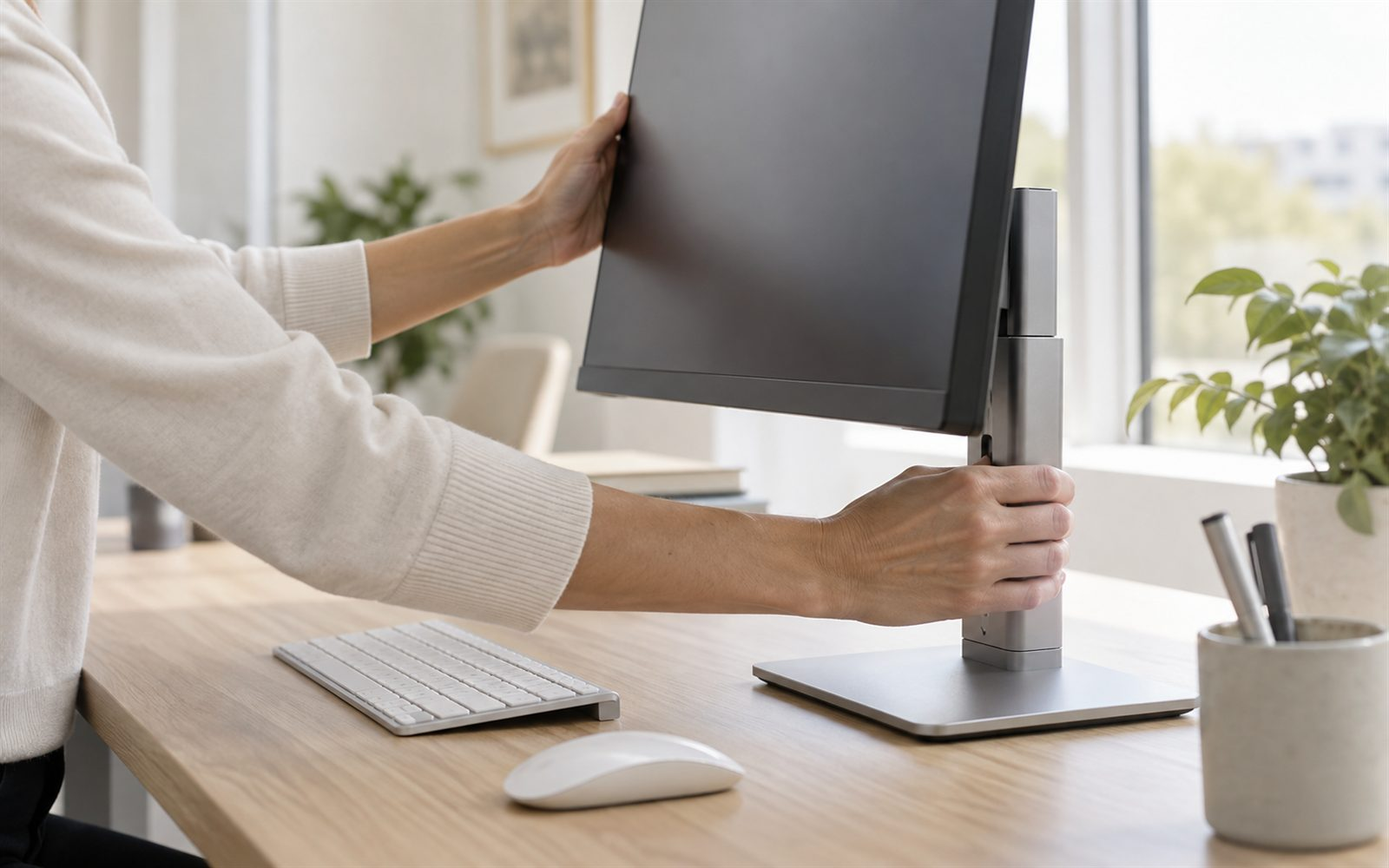
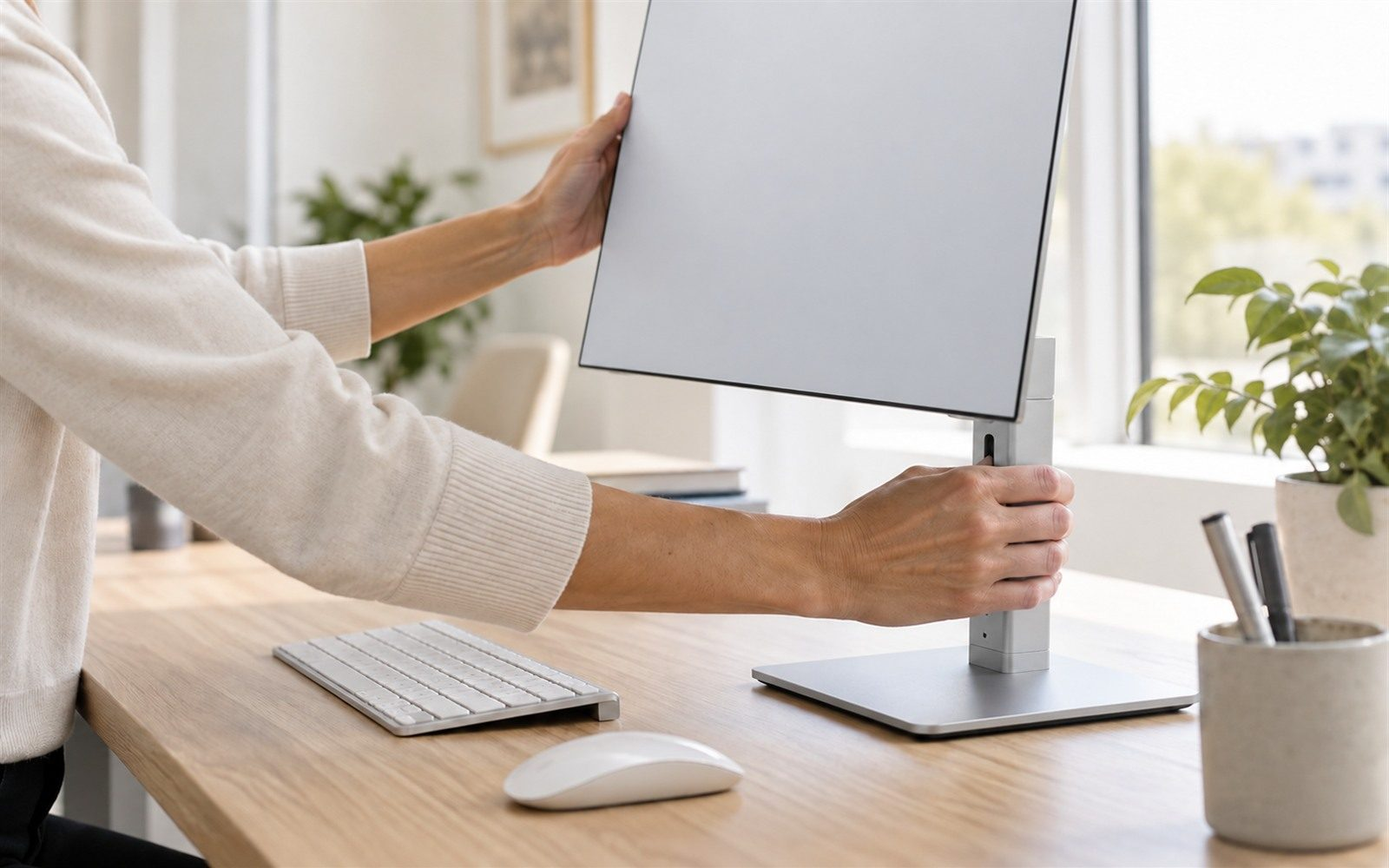
Слайды курса в стиле сайта: еще три (ноутбук, диск, головная боль) по образцу slides/, все шесть на странице курса; новое фото с тонким монитором (adjust)

diff --git a/slides/index.html b/slides/index.html
@@ -114,6 +114,47 @@ img{display:block;max-width:100%}
 .l-heat .s-photo{height:100%}
 .l-heat .s-photo img{object-position:40% 50%}
 
+/* 4. Ноутбук: текст слева, два фото с подписью «удобно / неудобно» */
+.l-lap{display:grid;grid-template-columns:minmax(0,.9fr) minmax(0,1fr) minmax(0,1fr);gap:2.4em;height:100%;grid-template-rows:minmax(0,1fr)}
+.l-lap__text{display:flex;flex-direction:column;padding-right:1.6em}
+.l-lap__lead{margin-top:2.4em;font-size:2.1em;line-height:1.5;color:var(--navy-2)}
+.lap{display:flex;flex-direction:column;min-height:0}
+.lap .s-photo{flex:1 1 auto;min-height:0}
+.verdict{list-style:none;margin-top:1.6em;background:var(--tint);border-radius:2.2em;padding:1.6em 2em}
+.verdict li{display:flex;align-items:center;gap:1em;font-size:2em;font-weight:500;line-height:1.3}
+.verdict li + li{margin-top:.7em}
+.verdict i{flex:0 0 auto;display:grid;place-items:center;width:1.5em;height:1.5em;border-radius:50%;background:var(--brand);color:#fff}
+.verdict li.is-bad{color:var(--navy-2)}
+.verdict li.is-bad i{background:#B6BCC8}
+.verdict svg{width:.9em;height:.9em}
+
+/* 5. Диск: текст слева, схема «норма / выпрямленный лордоз» справа */
+.l-disc{display:flex;flex-direction:column;height:100%}
+.l-disc__text{display:grid;grid-template-columns:minmax(0,1.35fr) minmax(0,1fr);gap:5.6em;align-items:end}
+.l-disc .s-h{font-size:5.6em}
+.l-disc__lead{font-size:2.3em;line-height:1.45;color:var(--navy-2);padding-bottom:.4em}
+.discs{flex:1 1 auto;min-height:0;display:grid;grid-template-columns:1fr 1fr;gap:2em;margin-top:4em}
+.disc{position:relative;display:flex;flex-direction:column;min-height:0;background:var(--tint);border-radius:2.8em;padding:7.2em 2.4em 2.8em}
+.disc svg{flex:1 1 auto;width:100%;min-height:0}
+.disc__cap{position:absolute;left:1.4em;top:1.4em;margin-top:0}
+.disc__cap{display:flex;align-items:center;gap:1em;margin-top:1.6em;font-size:2.1em;font-weight:600}
+.disc__cap span{font-size:.72em;color:var(--brand)}
+
+/* 6. Головная боль: причины плашками, следствие цепочкой, фото справа */
+.l-head{display:grid;grid-template-columns:minmax(0,1.5fr) minmax(0,1fr);gap:5.6em;height:100%;grid-template-rows:minmax(0,1fr)}
+.l-head__sub{margin-top:.8em;font-size:2.6em;font-weight:600;letter-spacing:-.02em;color:var(--accent)}
+.l-head__lbl{margin-top:2em;font-size:1.9em;font-weight:600;color:var(--navy-3)}
+.l-head .chips{margin-top:1em;gap:.8em}
+.l-head .chips li{padding:.7em 1.3em}
+.chain{display:grid;grid-template-columns:auto minmax(0,1fr);align-items:center;gap:1em 1.8em;margin-top:1em;background:var(--tint);border-radius:2.4em;padding:1.8em 2.4em}
+.chain p{font-size:2em;line-height:1.4;color:var(--navy-2)}
+.chain p b{font-weight:600;color:var(--navy)}
+.chain i{flex:0 0 auto;display:grid;place-items:center;width:4.4em;height:4.4em;border-radius:50%;background:var(--brand);color:#fff}
+.chain i svg{width:2.2em;height:2.2em}
+.chain i.is-soft{background:#fff;color:var(--brand)}
+.l-head .s-photo{height:100%}
+.l-head .s-photo img{object-position:55% 40%}
+
 /* ---------- полноэкранный показ ---------- */
 .show{position:fixed;inset:0;z-index:10;background:#0E1426;display:none;align-items:center;justify-content:center;padding:2vmin}
 .show.is-on{display:flex}
@@ -127,7 +168,7 @@ img{display:block;max-width:100%}
 <main class="page">
   <header class="intro">
     <h1>Слайды курса <em>в стиле нового сайта</em></h1>
-    <p>Три слайда из текущих презентаций курса, переоформленные в стиле сайта: тот же шрифт, цвета и подача. Текст перенесён слово в слово. Фото подобраны заново под смысл каждого слайда, в единой светлой гамме. Слева было, справа стало.</p>
+    <p>Шесть слайдов из текущих презентаций курса, переоформленные в стиле сайта: тот же шрифт, цвета и подача. Текст перенесён слово в слово. Фото подобраны заново под смысл каждого слайда, в единой светлой гамме. Слева было, справа стало.</p>
   </header>
 
   <!-- 1 -->
@@ -214,6 +255,123 @@ img{display:block;max-width:100%}
           <div class="s-foot"><span>simkin.ru</span><span><b>03</b> / 13</span></div>
         </div></div>
         <button class="open" type="button" data-open="2">Смотреть на весь экран →</button>
+      </div>
+    </div>
+  </section>
+
+  <!-- 4 -->
+  <section class="pair">
+    <div class="pair__head"><span class="pair__num">04</span><h2 class="pair__title">Основная проблема ноутбука</h2></div>
+    <div class="pair__grid">
+      <div class="before"><span class="tag">Было</span><img src="../design/assets/course/slide-01.jpg" alt="Исходный слайд «Основная проблема ноутбука»" loading="lazy"></div>
+      <div class="after">
+        <span class="tag tag--new">Стало</span>
+        <div class="slide-wrap"><div class="slide">
+          <div class="s-top"><span class="s-eyebrow">Работа с ноутбуком</span><img class="s-logo" src="../design/assets/logo.svg?v=2" alt="Доктор Симкин"></div>
+          <div class="s-body l-lap">
+            <div class="l-lap__text">
+              <h3 class="s-h">Основная проблема <em>ноутбука</em></h3>
+              <p class="l-lap__lead">Главная эргономическая проблема ноутбука в том, что экран и клавиатура соединены в одном корпусе. Поэтому ноутбук сам по себе хуже подходит для длительной работы, чем стационарное рабочее место.</p>
+            </div>
+            <div class="lap">
+              <div class="s-photo"><img src="img/laptop-stand.jpg" alt=""></div>
+              <ul class="verdict">
+                <li><i><svg viewBox="0 0 20 20" fill="none" stroke="currentColor" stroke-width="2.4" stroke-linecap="round" stroke-linejoin="round"><path d="M4 10.6l3.8 3.8L16 6.2"/></svg></i>Удобно для глаз</li>
+                <li class="is-bad"><i><svg viewBox="0 0 20 20" fill="none" stroke="currentColor" stroke-width="2.4" stroke-linecap="round"><path d="M6 6l8 8M14 6l-8 8"/></svg></i>неудобно для рук</li>
+              </ul>
+            </div>
+            <div class="lap">
+              <div class="s-photo"><img src="img/laptop-desk.jpg" alt=""></div>
+              <ul class="verdict">
+                <li><i><svg viewBox="0 0 20 20" fill="none" stroke="currentColor" stroke-width="2.4" stroke-linecap="round" stroke-linejoin="round"><path d="M4 10.6l3.8 3.8L16 6.2"/></svg></i>Удобно для рук</li>
+                <li class="is-bad"><i><svg viewBox="0 0 20 20" fill="none" stroke="currentColor" stroke-width="2.4" stroke-linecap="round"><path d="M6 6l8 8M14 6l-8 8"/></svg></i>неудобно для шеи</li>
+              </ul>
+            </div>
+          </div>
+          <div class="s-foot"><span>simkin.ru</span><span><b>08</b> / 12</span></div>
+        </div></div>
+        <button class="open" type="button" data-open="3">Смотреть на весь экран →</button>
+      </div>
+    </div>
+  </section>
+
+  <!-- 5 -->
+  <section class="pair">
+    <div class="pair__head"><span class="pair__num">05</span><h2 class="pair__title">Изменение формы диска</h2></div>
+    <div class="pair__grid">
+      <div class="before"><span class="tag">Было</span><img src="../design/assets/course/slide-02.jpg" alt="Исходный слайд «Изменение формы диска»" loading="lazy"><small>Схема перерисована в стиле сайта по исходной (диск как шар между пластинами). Подписи «Норма» и «Выпрямленный лордоз» добавлены для читаемости, их стоит показать заказчику.</small></div>
+      <div class="after">
+        <span class="tag tag--new">Стало</span>
+        <div class="slide-wrap"><div class="slide">
+          <div class="s-top"><span class="s-eyebrow">Строение позвоночника в норме и патологии</span><img class="s-logo" src="../design/assets/logo.svg?v=2" alt="Доктор Симкин"></div>
+          <div class="s-body l-disc">
+            <div class="l-disc__text">
+              <h3 class="s-h">Изменение формы диска <em>при изменении рабочей позы</em></h3>
+              <p class="l-disc__lead">Выпрямление лордоза приводит к формированию протрузий и грыж дисков</p>
+            </div>
+            <div class="discs">
+              <div class="disc">
+                <svg viewBox="20 12 280 236" aria-hidden="true">
+                  <defs><radialGradient id="ballA" cx="38%" cy="34%" r="70%"><stop offset="0" stop-color="#BFE6FF"/><stop offset=".55" stop-color="#54C2FF"/><stop offset="1" stop-color="#1A5FE0"/></radialGradient></defs>
+                  <rect x="30" y="44" width="240" height="24" rx="8" fill="#fff" stroke="#98A0B2" stroke-width="2"/>
+                  <rect x="30" y="196" width="240" height="24" rx="8" fill="#fff" stroke="#98A0B2" stroke-width="2"/>
+                  <circle cx="150" cy="132" r="62" fill="url(#ballA)"/>
+                  <path d="M150 20v14M144 28l6 6 6-6M150 240v-14M144 232l6-6 6 6" fill="none" stroke="#98A0B2" stroke-width="2.4" stroke-linecap="round" stroke-linejoin="round"/>
+                </svg>
+                <div class="disc__cap"><span>01</span>Норма</div>
+              </div>
+              <div class="disc">
+                <svg viewBox="20 12 280 236" aria-hidden="true">
+                  <defs><radialGradient id="ballB" cx="38%" cy="34%" r="70%"><stop offset="0" stop-color="#BFE6FF"/><stop offset=".55" stop-color="#54C2FF"/><stop offset="1" stop-color="#1A5FE0"/></radialGradient></defs>
+                  <polygon points="30,150 250,62 258,84 38,172" fill="#fff" stroke="#98A0B2" stroke-width="2" stroke-linejoin="round"/>
+                  <rect x="30" y="196" width="240" height="24" rx="8" fill="#fff" stroke="#98A0B2" stroke-width="2"/>
+                  <ellipse cx="200" cy="142" rx="56" ry="52" fill="url(#ballB)"/>
+                  <path d="M54 112c10-22 30-36 52-40M100 66l8 6-8 6" fill="none" stroke="#1A5FE0" stroke-width="3" stroke-linecap="round" stroke-linejoin="round"/>
+                  <path d="M262 142h22M276 134l8 8-8 8" fill="none" stroke="#1A5FE0" stroke-width="3.4" stroke-linecap="round" stroke-linejoin="round"/>
+                </svg>
+                <div class="disc__cap"><span>02</span>Выпрямленный лордоз</div>
+              </div>
+            </div>
+          </div>
+          <div class="s-foot"><span>simkin.ru</span><span><b>11</b> / 17</span></div>
+        </div></div>
+        <button class="open" type="button" data-open="4">Смотреть на весь экран →</button>
+      </div>
+    </div>
+  </section>
+
+  <!-- 6 -->
+  <section class="pair">
+    <div class="pair__head"><span class="pair__num">06</span><h2 class="pair__title">Головная боль</h2></div>
+    <div class="pair__grid">
+      <div class="before"><span class="tag">Было</span><img src="../design/assets/course/slide-06.jpg" alt="Исходный слайд «Головная боль»" loading="lazy"></div>
+      <div class="after">
+        <span class="tag tag--new">Стало</span>
+        <div class="slide-wrap"><div class="slide">
+          <div class="s-top"><span class="s-eyebrow">Troubleshooting</span><img class="s-logo" src="../design/assets/logo.svg?v=2" alt="Доктор Симкин"></div>
+          <div class="s-body l-head">
+            <div>
+              <h3 class="s-h">Головная боль</h3>
+              <p class="l-head__sub">Поворот головы в сторону</p>
+              <p class="l-head__lbl">Причины:</p>
+              <ul class="chips">
+                <li><span>01</span>Монитор расположен сбоку от оси тела</li>
+                <li><span>02</span>Использование бокового монитора как основного</li>
+                <li><span>03</span>Работа с ноутбуком, стоящим сбоку от клавиатуры</li>
+              </ul>
+              <p class="l-head__lbl">Следствие:</p>
+              <div class="chain">
+                <i class="is-soft"><svg viewBox="0 0 24 24" fill="none" stroke="currentColor" stroke-width="1.8" stroke-linecap="round" stroke-linejoin="round"><path d="M5 12h14M13 6l6 6-6 6"/></svg></i>
+                <p>постоянное напряжение подзатылочных мышц, осуществляющих поворот головы</p>
+                <i><svg viewBox="0 0 24 24" fill="none" stroke="currentColor" stroke-width="1.8" stroke-linecap="round" stroke-linejoin="round"><path d="M5 12h14M13 6l6 6-6 6"/></svg></i>
+                <p><b>боль в шее и затылочной области</b></p>
+              </div>
+            </div>
+            <div class="s-photo"><img src="img/head-turn.jpg" alt=""></div>
+          </div>
+          <div class="s-foot"><span>simkin.ru</span><span><b>06</b> / 36</span></div>
+        </div></div>
+        <button class="open" type="button" data-open="5">Смотреть на весь экран →</button>
       </div>
     </div>
   </section>

diff --git a/design/kurs-po-ergonomike.html b/design/kurs-po-ergonomike.html
@@ -99,7 +99,7 @@
         <p class="dcohero__lead" data-rv style="--d:.18s">Он объясняет, зачем нужна эргономика, как рабочая поза, оборудование и&nbsp;рабочая среда влияют на&nbsp;самочувствие и&nbsp;работоспособность человека, и&nbsp;учит адаптировать рабочее место под человека и&nbsp;его задачу.</p>
       </div>
       <div class="dcohero__media dk-hero__media" data-rv style="--d:.06s">
-        <div class="dshot dshot--slide dk-hero__shot"><picture><source srcset="assets/course/slide-01.webp" type="image/webp"><img src="assets/course/slide-01.jpg" alt="Слайд курса «Основная проблема ноутбука»" width="800" height="450" decoding="async"></picture></div>
+        <div class="dshot dshot--slide dk-hero__shot"><picture><source srcset="assets/course/v2/slide-01.webp" type="image/webp"><img src="assets/course/v2/slide-01.jpg" alt="Слайд курса «Основная проблема ноутбука»" width="800" height="450" decoding="async"></picture></div>
       </div>
     </div>
   </div>
@@ -339,7 +339,7 @@
     <div class="dk-prog" data-tabs>
     <div class="dk-mods">
       <article class="dk-mod" data-tab data-rv>
-        <div class="dshot dshot--slide"><picture><source srcset="assets/course/slide-02.webp" type="image/webp"><img src="assets/course/slide-02.jpg" alt="Слайд курса «Изменение формы диска при изменении рабочей позы»" width="800" height="450" loading="lazy" decoding="async"></picture></div>
+        <div class="dshot dshot--slide"><picture><source srcset="assets/course/v2/slide-02.webp" type="image/webp"><img src="assets/course/v2/slide-02.jpg" alt="Слайд курса «Изменение формы диска при изменении рабочей позы»" width="800" height="450" loading="lazy" decoding="async"></picture></div>
         <div class="dk-mod__body">
           <span class="dk-mod__n">Раздел 1</span>
           <h3>Поза и&nbsp;тело</h3>
@@ -347,7 +347,7 @@
         </div>
       </article>
       <article class="dk-mod" data-tab data-rv style="--d:.06s">
-        <div class="dshot dshot--slide"><picture><source srcset="assets/course/slide-03.webp?v=2" type="image/webp"><img src="assets/course/slide-03.jpg?v=2" alt="Слайд курса «Расстояние»: положение человека относительно монитора" width="1600" height="901" loading="lazy" decoding="async"></picture></div>
+        <div class="dshot dshot--slide"><picture><source srcset="assets/course/v2/slide-03.webp" type="image/webp"><img src="assets/course/v2/slide-03.jpg" alt="Слайд курса «Расстояние»: положение человека относительно монитора" width="1600" height="901" loading="lazy" decoding="async"></picture></div>
         <div class="dk-mod__body">
           <span class="dk-mod__n">Раздел 2</span>
           <h3>Рабочее место</h3>
@@ -355,7 +355,7 @@
         </div>
       </article>
       <article class="dk-mod" data-tab data-rv style="--d:.12s">
-        <div class="dshot dshot--slide"><picture><source srcset="assets/course/slide-04.webp" type="image/webp"><img src="assets/course/slide-04.jpg" alt="Слайд курса «Виды посадки: компьютерная и автомобильная»" width="1600" height="900" loading="lazy" decoding="async"></picture></div>
+        <div class="dshot dshot--slide"><picture><source srcset="assets/course/v2/slide-04.webp" type="image/webp"><img src="assets/course/v2/slide-04.jpg" alt="Слайд курса «Виды посадки: компьютерная и автомобильная»" width="1600" height="900" loading="lazy" decoding="async"></picture></div>
         <div class="dk-mod__body">
           <span class="dk-mod__n">Раздел 3</span>
           <h3>Устройства и&nbsp;разные сценарии работы</h3>
@@ -363,7 +363,7 @@
         </div>
       </article>
       <article class="dk-mod" data-tab data-rv>
-        <div class="dshot dshot--slide"><picture><source srcset="assets/course/slide-05.webp" type="image/webp"><img src="assets/course/slide-05.jpg" alt="Слайд курса «Как повышенная температура влияет на работоспособность»" width="1448" height="1086" loading="lazy" decoding="async"></picture></div>
+        <div class="dshot dshot--slide"><picture><source srcset="assets/course/v2/slide-05.webp" type="image/webp"><img src="assets/course/v2/slide-05.jpg" alt="Слайд курса «Как повышенная температура влияет на работоспособность»" width="1448" height="1086" loading="lazy" decoding="async"></picture></div>
         <div class="dk-mod__body">
           <span class="dk-mod__n">Раздел 4</span>
           <h3>Среда, работоспособность и&nbsp;восстановление</h3>
@@ -371,7 +371,7 @@
         </div>
       </article>
       <article class="dk-mod" data-tab data-rv style="--d:.06s">
-        <div class="dshot dshot--slide"><picture><source srcset="assets/course/slide-06.webp" type="image/webp"><img src="assets/course/slide-06.jpg" alt="Слайд курса «Головная боль: поворот головы в сторону»" width="800" height="450" loading="lazy" decoding="async"></picture></div>
+        <div class="dshot dshot--slide"><picture><source srcset="assets/course/v2/slide-06.webp" type="image/webp"><img src="assets/course/v2/slide-06.jpg" alt="Слайд курса «Головная боль: поворот головы в сторону»" width="800" height="450" loading="lazy" decoding="async"></picture></div>
         <div class="dk-mod__body">
           <span class="dk-mod__n">Раздел 5</span>
           <h3>Если что-то болит</h3>

diff --git a/design/chto-takoe-ergonomika.html b/design/chto-takoe-ergonomika.html
@@ -248,8 +248,8 @@
     <div class="dposts">
       <a href="../statya.html" class="dpost" data-rv>
         <picture class="dpost__ph">
-          <source srcset="assets/photo/adjust.webp" type="image/webp">
-          <img src="assets/photo/adjust.jpg" alt="Настройка высоты монитора на рабочем месте" width="1600" height="1000" loading="lazy" decoding="async">
+          <source srcset="assets/photo/adjust.webp?v=2" type="image/webp">
+          <img src="assets/photo/adjust.jpg?v=2" alt="Настройка высоты монитора на рабочем месте" width="1600" height="1000" loading="lazy" decoding="async">
         </picture>
         <div class="dpost__body">
           <div class="dpost__meta"><span class="dchip">Рабочее место</span><span class="dread"><span class="dread__ico" aria-hidden="true"><svg viewBox="0 0 16 16" fill="none" stroke="currentColor" stroke-width="1.4" stroke-linecap="round"><circle cx="8" cy="8" r="6.2"/><path d="M8 4.8V8l2.2 1.4"/></svg></span>4 мин</span></div>

diff --git a/design/konsultaciya-po-ergonomike.html b/design/konsultaciya-po-ergonomike.html
@@ -550,7 +550,7 @@
           <a href="kurs-po-ergonomike.html" class="dbtn dbtn--line">Подробнее об онлайн-курсе<svg viewBox="0 0 18 18" fill="none" stroke="currentColor" stroke-width="1.8" stroke-linecap="round" stroke-linejoin="round"><path d="M3 9h12M10 4l5 5-5 5"/></svg></a>
         </div>
       </div>
-      <div class="dcons-course__ph"><picture><source srcset="assets/photo/adjust.webp" type="image/webp"><img src="assets/photo/adjust.jpg" alt="Человек сам настраивает высоту монитора на своем рабочем месте" width="1600" height="1000" loading="lazy" decoding="async"></picture></div>
+      <div class="dcons-course__ph"><picture><source srcset="assets/photo/adjust.webp?v=2" type="image/webp"><img src="assets/photo/adjust.jpg?v=2" alt="Человек сам настраивает высоту монитора на своем рабочем месте" width="1600" height="1000" loading="lazy" decoding="async"></picture></div>
     </div>
   </div>
 </section>

diff --git a/design/index.html b/design/index.html
@@ -128,8 +128,8 @@
     <div class="ddiff__feature">
       <div class="ddiff__ph" data-rv>
         <picture>
-          <source srcset="assets/photo/adjust.webp" type="image/webp">
-          <img src="assets/photo/adjust.jpg" alt="Настройка высоты монитора на рабочем месте" width="1600" height="1000" loading="lazy" decoding="async">
+          <source srcset="assets/photo/adjust.webp?v=2" type="image/webp">
+          <img src="assets/photo/adjust.jpg?v=2" alt="Настройка высоты монитора на рабочем месте" width="1600" height="1000" loading="lazy" decoding="async">
         </picture>
       </div>
       <p class="ddiff__quote" data-rv>Для тех, кто хочет не&nbsp;просто следовать рекомендациям, а&nbsp;понимать их&nbsp;логику и&nbsp;уметь самостоятельно принимать правильные решения.</p>

diff --git a/design/ergonomichnye-resheniya.html b/design/ergonomichnye-resheniya.html
@@ -356,8 +356,8 @@
       </div>
       <div class="dstart__ph" data-rv style="--d:.08s">
         <picture>
-          <source srcset="assets/photo/adjust.webp" type="image/webp">
-          <img src="assets/photo/adjust.jpg" alt="Настройка высоты монитора на рабочем месте" width="1600" height="1000" loading="lazy">
+          <source srcset="assets/photo/adjust.webp?v=2" type="image/webp">
+          <img src="assets/photo/adjust.jpg?v=2" alt="Настройка высоты монитора на рабочем месте" width="1600" height="1000" loading="lazy">
         </picture>
       </div>
     </div>
